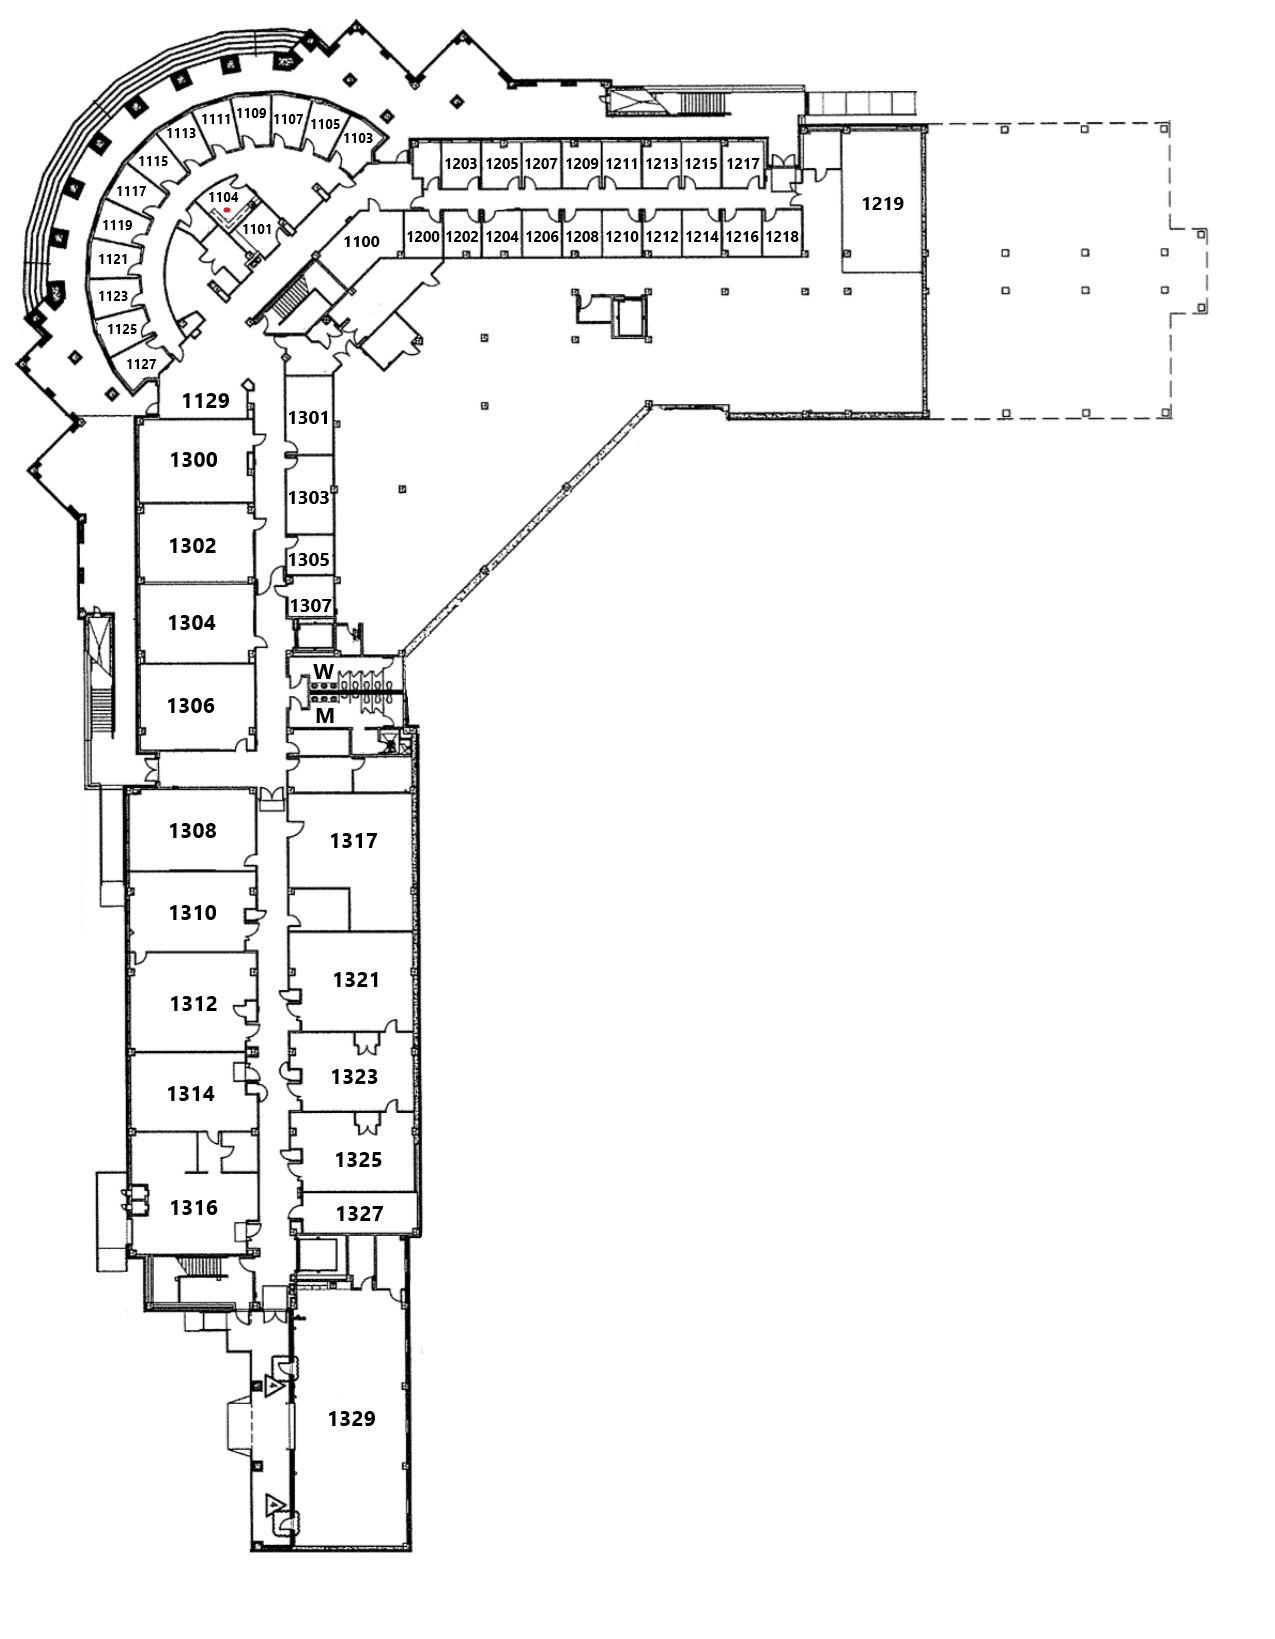
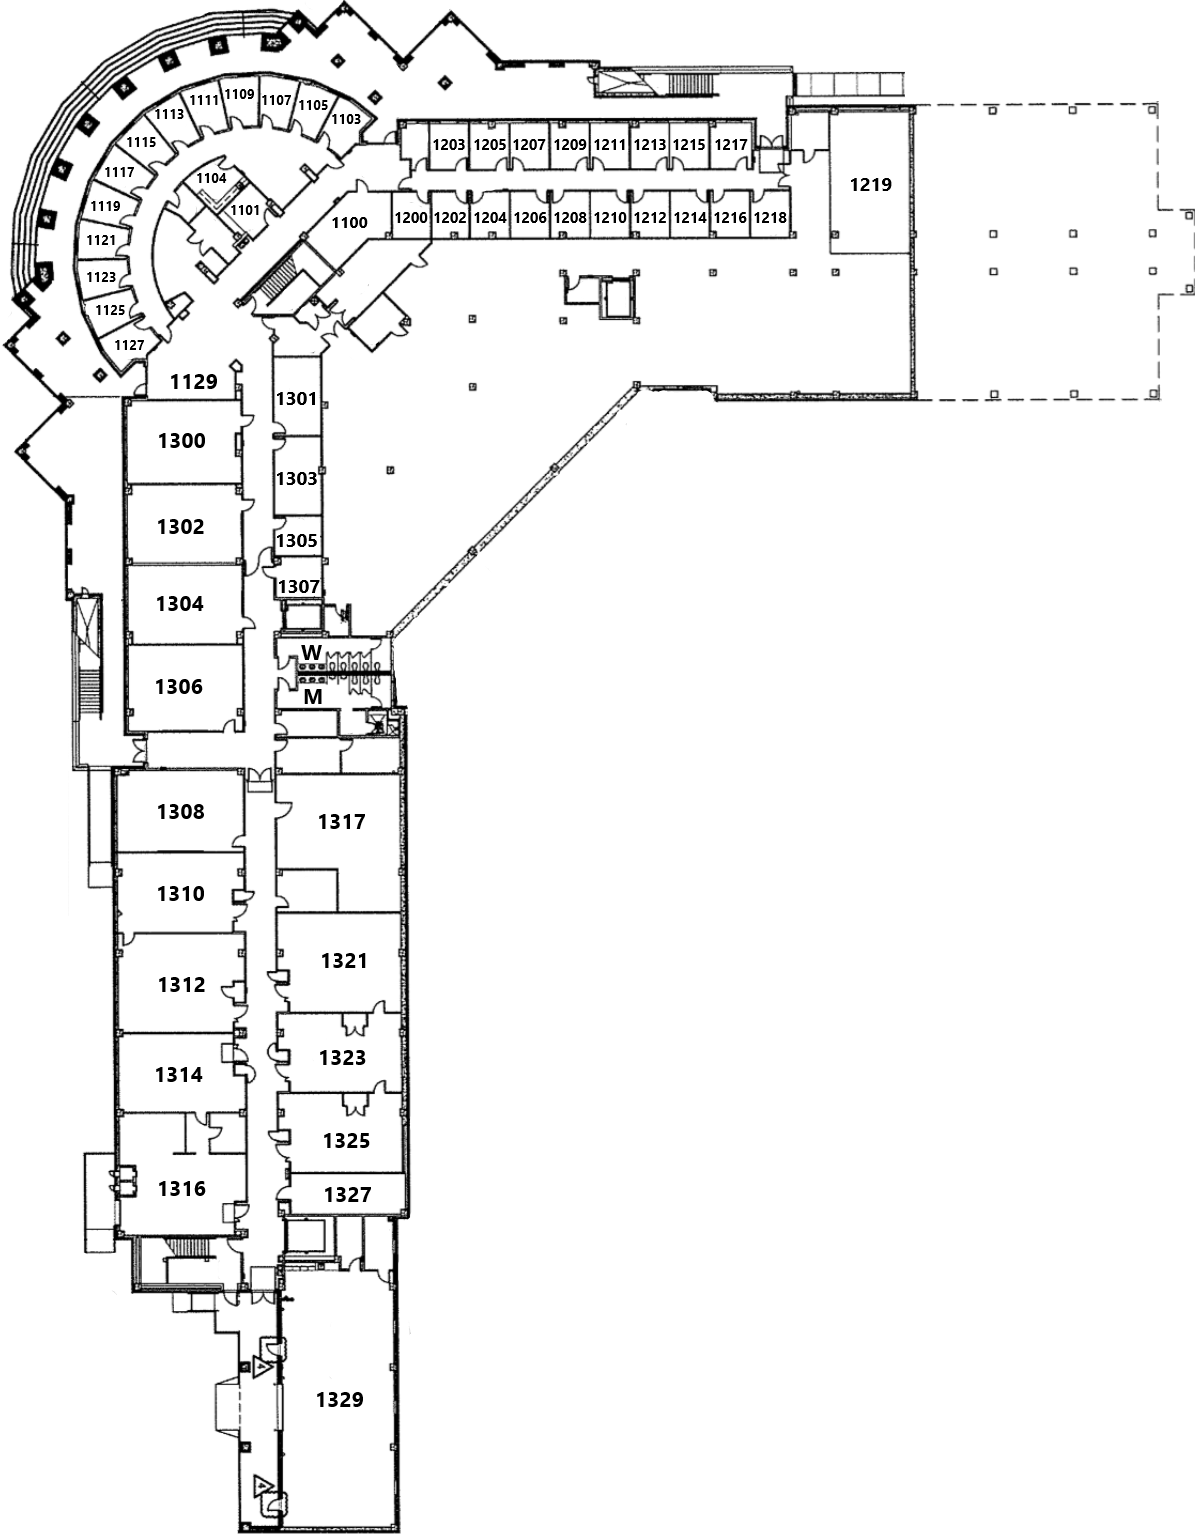
Maps Fixed

diff --git a/lib/main.dart b/lib/main.dart
@@ -1566,11 +1566,11 @@ var _selectedItem = '2nd Floor';
                           heroTag: "2nd Floor",
                       ),
                       PhotoViewGalleryPageOptions(
-                          imageProvider: AssetImage("images/Third.jpg"),
+                          imageProvider: AssetImage("images/Third.png"),
                           heroTag: "3rd Floor",
                       ),
                       PhotoViewGalleryPageOptions(
-                          imageProvider: AssetImage("images/Fourth.jpg"),
+                          imageProvider: AssetImage("images/Fourth.png"),
                           heroTag: "4th Floor",
                       ),
                     ]
